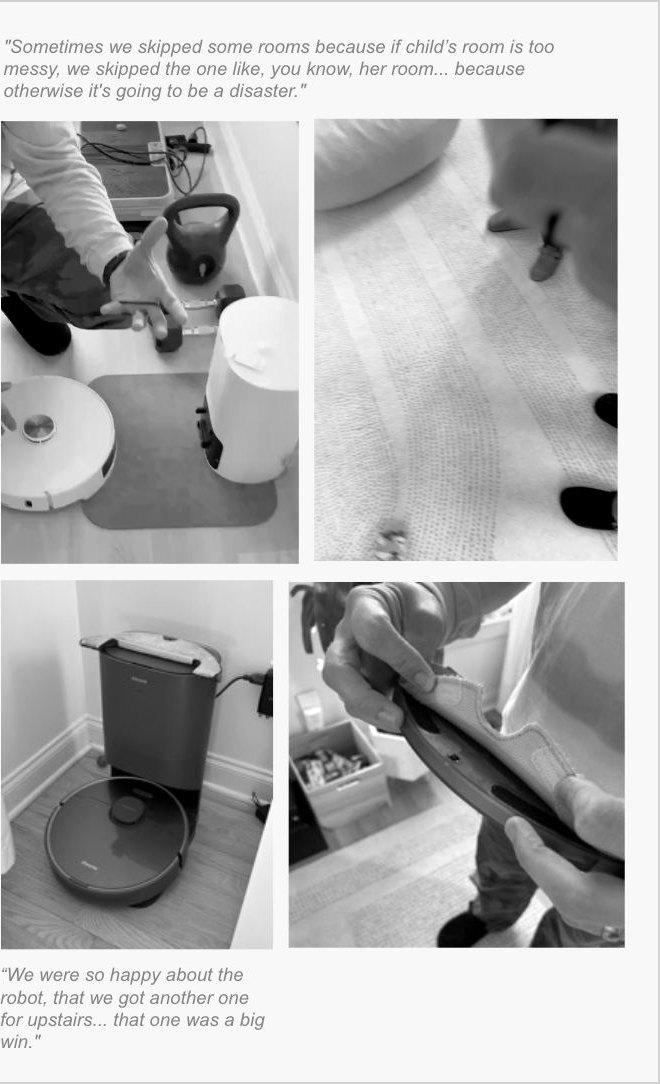
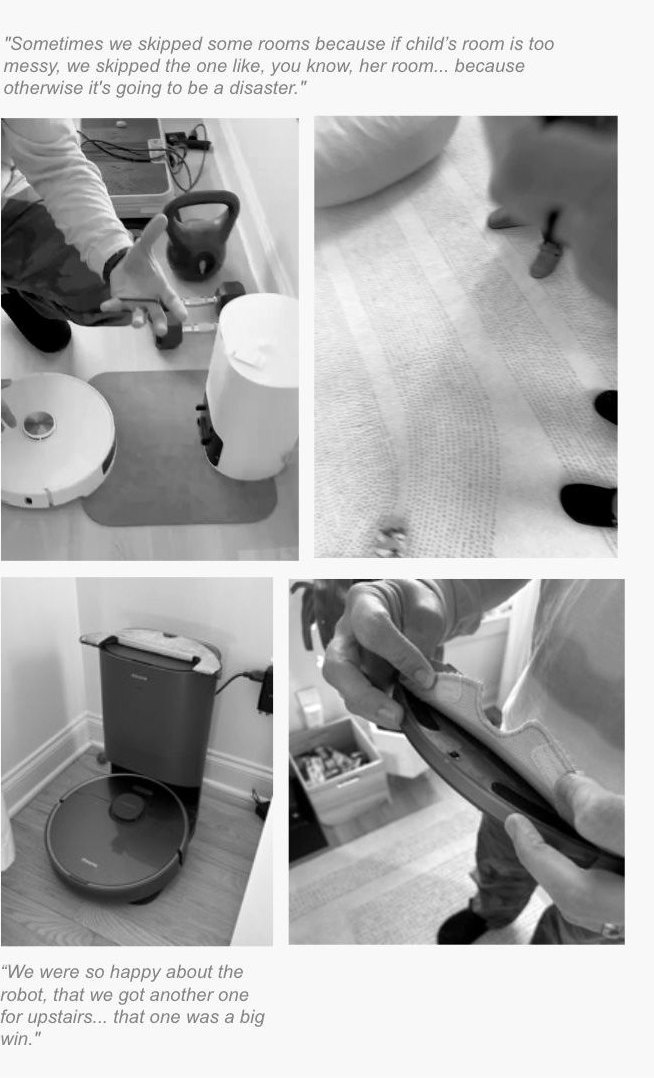
Draft: Control and Ritual images same size and aligned
Claude-Session: https://claude.ai/code/session_01Lm7r7dJX4Rp9GEpB2yc7Xt

diff --git a/projects/home-cleaning.html b/projects/home-cleaning.html
@@ -369,11 +369,12 @@ header.top .lede{margin:0;max-width:none}
 #approach .trio li .mlabel path{fill:none;stroke:#44a52a;stroke-width:2;stroke-linecap:round}
 #approach .trio li .mlabel i{font-style:normal;font-family:Caveat,"Bradley Hand","Segoe Print",cursive;font-weight:500;font-size:26px;color:#44a52a;line-height:1}
 .srcnote{font-size:14px;color:var(--muted);margin:-8px 0 0}
-.pair2{display:grid;grid-template-columns:1fr 1fr;gap:40px;margin:48px 0 64px;align-items:start}
-@media(max-width:719px){.pair2{grid-template-columns:1fr}}
+.pair2{display:grid;grid-template-columns:1fr 1fr;grid-template-rows:auto auto auto auto;column-gap:40px;margin:48px 0 64px}
+.col2{display:grid;grid-row:span 4;grid-template-rows:subgrid}
+@media(max-width:719px){.pair2{grid-template-columns:1fr;grid-template-rows:none;row-gap:48px}.col2{grid-row:auto;grid-template-rows:none;display:block}}
 .col2 h3{font-size:22px;line-height:1.25;font-weight:600;letter-spacing:-.02em;margin:6px 0 10px}
 .col2 .cbody{font-size:16px;line-height:1.5;color:var(--muted);margin:0 0 20px;max-width:40ch}
-.vimg{margin:0}.vimg img{display:block;width:100%;height:auto;border:1px solid var(--hair);border-radius:14px}
+.vimg{margin:0}.vimg img{display:block;width:100%;height:auto;aspect-ratio:3/4;object-fit:contain;background:#f7f7f7;border:1px solid var(--hair);border-radius:14px}
 .vimg figcaption{font-size:13px;color:var(--muted);font-style:italic;text-align:center;margin-top:8px}
 .also2{margin:0 0 72px}
 .afh{font-size:22px;font-weight:600;letter-spacing:-.02em;margin:0 0 20px}
@@ -698,13 +699,13 @@ header.top .lede{margin:0;max-width:none}
         <p class="dnum">01 · Control</p>
         <h3>People decide when the robot vacuum runs.</h3>
         <p class="cbody">People ran robot vacuums when home, chose rooms, and kept up care like emptying bins and washing pads.</p>
-        <figure class="vimg"><img src="../images/slide-control.jpg?v=3" width="660" height="1084" alt="Report photos: a person docking a robot vacuum, a robot at its auto-empty dock, a hand checking a mop pad, with participant quotes" loading="lazy"><figcaption>Snippet from the report</figcaption></figure>
+        <figure class="vimg"><img src="../images/slide-control.jpg?v=5" width="654" height="1078" alt="Report photos: a person docking a robot vacuum, a robot at its auto-empty dock, a hand checking a mop pad, with participant quotes" loading="lazy"><figcaption>Snippet from the report</figcaption></figure>
       </article>
       <article class="col2" id="d2">
         <p class="dnum">02 · Ritual</p>
         <h3>People clean a little, often.</h3>
         <p class="cbody">People cleaned in small moments, while cooking, before guests, and more when someone was sick.</p>
-        <figure class="vimg"><img src="../images/slide-ritual.jpg?v=3" width="538" height="658" alt="Report photos: cleaning under the kitchen sink, a stocked cleaning shelf, and wipes left out as a reminder, with participant quotes" loading="lazy"><figcaption>Snippet from the report</figcaption></figure>
+        <figure class="vimg"><img src="../images/slide-ritual.jpg?v=4" width="538" height="655" alt="Report photos: cleaning under the kitchen sink, a stocked cleaning shelf, and wipes left out as a reminder, with participant quotes" loading="lazy"><figcaption>Snippet from the report</figcaption></figure>
       </article>
     </div>
     <div class="also2">
